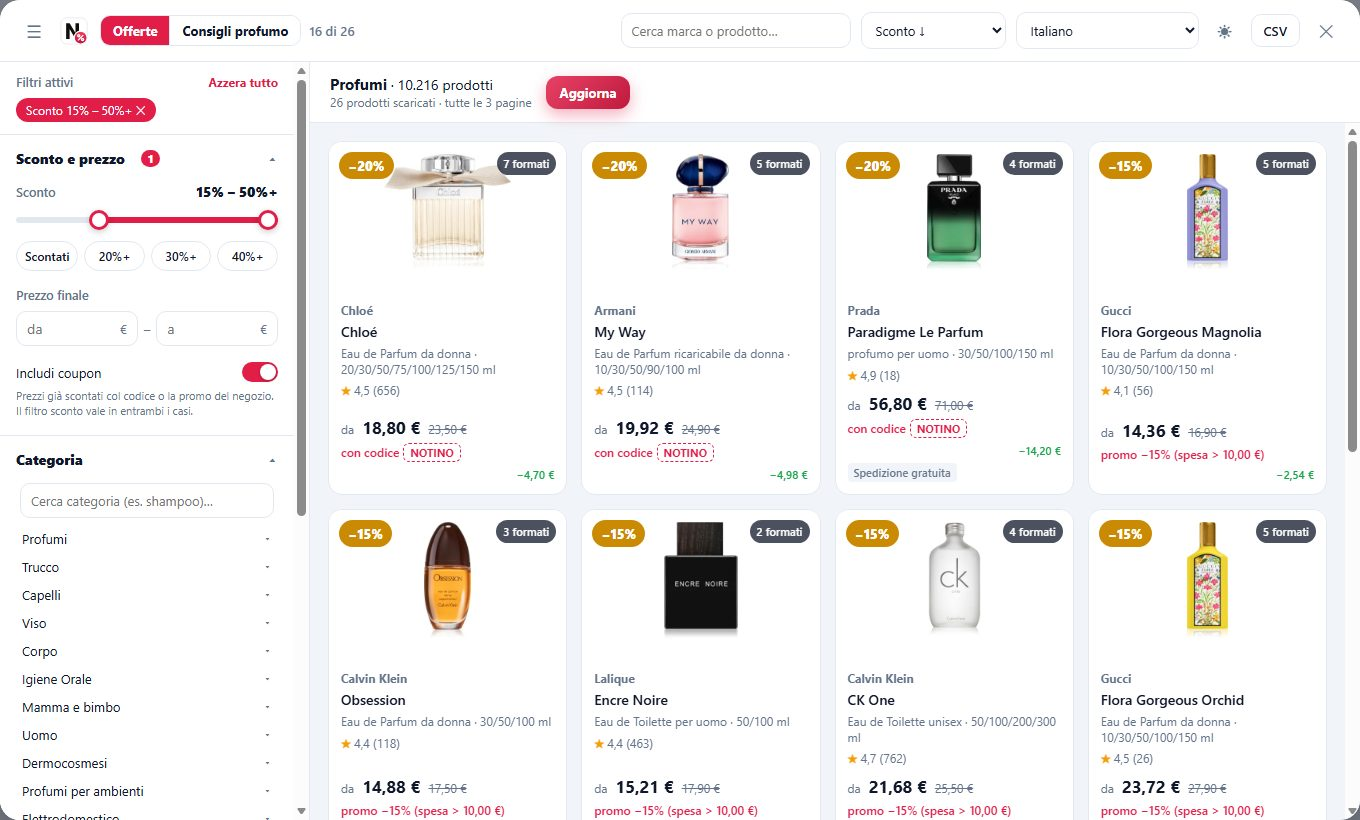
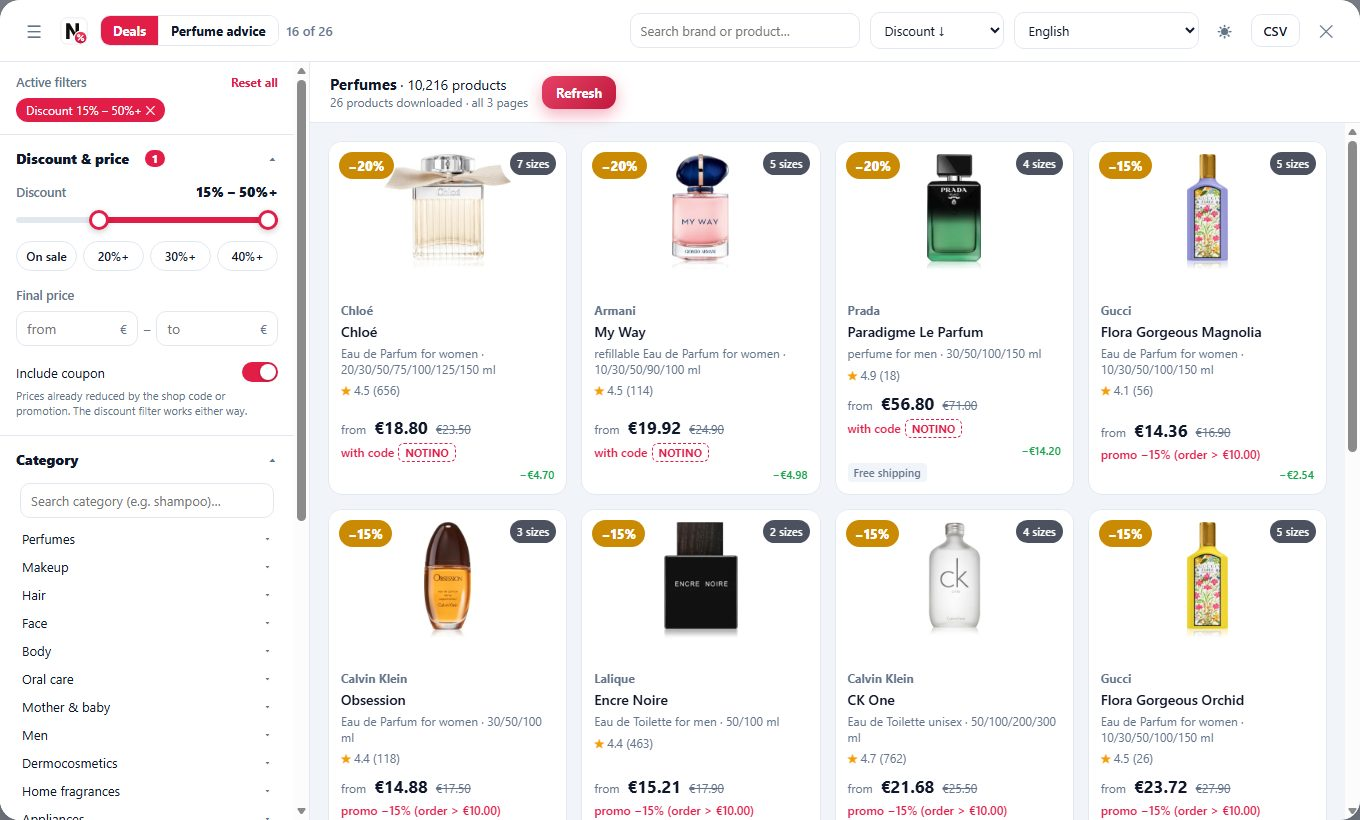
Add files via upload

diff --git a/features.html b/features.html
@@ -1,0 +1,67 @@
+<!doctype html>
+<html lang="it">
+<head>
+<meta charset="utf-8">
+<meta name="viewport" content="width=device-width, initial-scale=1">
+<title data-it="Tutte le funzioni – Deal Finder" data-en="All features – Deal Finder">Tutte le funzioni – Deal Finder</title>
+<meta name="description" content="Estensione per Microsoft Edge e Chrome che trova i veri sconti su Notino: sconto effettivo con codici, prezzo finale, filtri avanzati e consigli profumo.">
+<link rel="icon" href="img/logo.png">
+<link rel="stylesheet" href="style.css">
+<script src="lang.js"></script>
+<style>
+.fx{display:grid;grid-template-columns:210px 1fr;gap:48px;max-width:1100px;margin:0 auto;padding:40px 20px 60px}
+.toc{position:sticky;top:88px;align-self:start;display:flex;flex-direction:column;gap:2px;font-size:14px}
+.toc a{color:var(--mut);text-decoration:none;padding:5px 10px;border-radius:8px;border-left:2px solid transparent}
+.toc a:hover{color:var(--fg);background:var(--soft)}
+.toc a.on{color:var(--acc);border-left-color:var(--acc);background:var(--soft)}
+.fx h1{font-size:36px;letter-spacing:-.5px;margin-bottom:8px}
+.fx .lead{color:var(--mut);font-size:18px;margin-bottom:28px}
+.fs{padding:28px 0;border-top:1px solid var(--line);scroll-margin-top:80px}
+.fs h2{text-align:left;font-size:22px;margin:0 0 4px;display:flex;align-items:center;gap:10px}
+.fs h2 i{font-style:normal;width:32px;height:32px;border-radius:9px;display:grid;place-items:center;background:var(--soft);color:var(--acc);font-size:16px}
+.fs>p{color:var(--mut);margin:0 0 16px 42px}
+.fg{display:grid;grid-template-columns:repeat(2,1fr);gap:10px 28px;margin-left:42px}
+.fi b{display:block;font-size:15px}
+.fi span{color:var(--mut);font-size:14.5px}
+@media (max-width:820px){.fx{grid-template-columns:1fr}.toc{display:none}.fg{grid-template-columns:1fr;margin-left:0}.fs>p{margin-left:0}}
+</style>
+</head>
+<body>
+<header><div class="wrap">
+  <a class="brand" href="./"><img src="img/logo.png" alt="">Deal Finder</a>
+  <nav>
+    <a class="hide-m" href="features.html"><span data-lang="it">Tutte le funzioni</span><span data-lang="en">All features</span></a>
+    <a class="hide-m" href="./#lingue"><span data-lang="it">Lingue</span><span data-lang="en">Languages</span></a>
+    <a class="hide-m" href="./#prezzi"><span data-lang="it">Prezzi</span><span data-lang="en">Pricing</span></a>
+    <a class="hide-m" href="./#contatti"><span data-lang="it">Contatti</span><span data-lang="en">Contact</span></a>
+    <span class="lang"><button data-l="it">IT</button><button data-l="en">EN</button></span>
+  </nav>
+</div></header>
+
+<div class="fx">
+<nav class="toc"><a href="#start"><span data-lang="it">Come si usa</span><span data-lang="en">How it works</span></a><a href="#panel"><span data-lang="it">Sulla pagina Notino</span><span data-lang="en">On the Notino page</span></a><a href="#deals"><span data-lang="it">Vista Offerte</span><span data-lang="en">Deals view</span></a><a href="#price"><span data-lang="it">Sconto e prezzo</span><span data-lang="en">Discount &amp; price</span></a><a href="#cat"><span data-lang="it">Categorie</span><span data-lang="en">Categories</span></a><a href="#filters"><span data-lang="it">Filtri del negozio</span><span data-lang="en">Shop filters</span></a><a href="#product"><span data-lang="it">Prodotto</span><span data-lang="en">Product</span></a><a href="#cards"><span data-lang="it">Schede prodotto</span><span data-lang="en">Product cards</span></a><a href="#ff"><span data-lang="it">Consigli profumo</span><span data-lang="en">Perfume advice</span></a><a href="#custom"><span data-lang="it">Personalizzazione</span><span data-lang="en">Personalisation</span></a><a href="#lang"><span data-lang="it">Multilingua</span><span data-lang="en">Multilingual</span></a><a href="#pro"><span data-lang="it">Gratuita e PRO</span><span data-lang="en">Free and PRO</span></a><a href="#privacy"><span data-lang="it">Privacy</span><span data-lang="en">Privacy</span></a></nav>
+<main>
+<h1><span data-lang="it">Tutte le funzioni</span><span data-lang="en">All features</span></h1>
+<p class="lead"><span data-lang="it">Tutto quello che fa Deal Finder, in breve.</span><span data-lang="en">Everything Deal Finder does, in short.</span></p>
+<section class="fs" id="start"><h2><i>①</i><span data-lang="it">Come si usa</span><span data-lang="en">How it works</span></h2><p><span data-lang="it">Tre passi, nessuna configurazione.</span><span data-lang="en">Three steps, no setup.</span></p><div class="fg"><div class="fi"><b><span data-lang="it">Apri Notino</span><span data-lang="en">Open Notino</span></b><span data-lang="it">Vai su una categoria o una ricerca di qualsiasi sito Notino.</span><span data-lang="en">Go to any category or search on any Notino site.</span></div><div class="fi"><b><span data-lang="it">Guarda gli sconti</span><span data-lang="en">See the discounts</span></b><span data-lang="it">Ogni prodotto mostra subito il suo sconto effettivo; il pannello in basso a destra filtra la pagina.</span><span data-lang="en">Every product instantly shows its effective discount; the panel at the bottom right filters the page.</span></div><div class="fi"><b><span data-lang="it">Cerca in tutte le pagine</span><span data-lang="en">Search all pages</span></b><span data-lang="it">Un clic apre la vista Offerte: tutti i prodotti della categoria in un&#x27;unica lista filtrabile.</span><span data-lang="en">One click opens the Deals view: every product of the category in a single filterable list.</span></div></div></section><section class="fs" id="panel"><h2><i>◧</i><span data-lang="it">Sulla pagina Notino</span><span data-lang="en">On the Notino page</span></h2><p><span data-lang="it">Funzioni attive direttamente mentre navighi il sito.</span><span data-lang="en">Features that work right while you browse the site.</span></p><div class="fg"><div class="fi"><b><span data-lang="it">Etichetta sconto</span><span data-lang="en">Discount badge</span></b><span data-lang="it">Su ogni prodotto: −20%, −30%… colorata in base a quanto è forte lo sconto.</span><span data-lang="en">On every product: −20%, −30%… coloured by how strong the discount is.</span></div><div class="fi"><b><span data-lang="it">Filtro sconto da–a</span><span data-lang="en">Discount range filter</span></b><span data-lang="it">Cursore da 0% a 50%+ e pulsanti rapidi: Tutti, Scontati, 20%+, 30%+.</span><span data-lang="en">Slider from 0% to 50%+ and quick buttons: All, On sale, 20%+, 30%+.</span></div><div class="fi"><b><span data-lang="it">Nascondi o sbiadisci</span><span data-lang="en">Hide or fade</span></b><span data-lang="it">I prodotti fuori filtro spariscono oppure restano visibili ma in grigio.</span><span data-lang="en">Products outside the filter disappear, or stay visible but greyed out.</span></div><div class="fi"><b><span data-lang="it">Ordina per sconto</span><span data-lang="en">Sort by discount</span></b><span data-lang="it">Riordina i prodotti della pagina dal più scontato.</span><span data-lang="en">Reorders the products on the page, biggest discount first.</span></div><div class="fi"><b><span data-lang="it">Pannello discreto</span><span data-lang="en">Unobtrusive panel</span></b><span data-lang="it">Si riduce a icona quando vuoi, da solo sulle pagine prodotto e mentre usi la vista Offerte.</span><span data-lang="en">Shrinks to an icon whenever you want, automatically on product pages and while the Deals view is open.</span></div><div class="fi"><b><span data-lang="it">Segue la navigazione</span><span data-lang="en">Follows your browsing</span></b><span data-lang="it">Quando cambi pagina o filtri sul sito, i dati si aggiornano da soli.</span><span data-lang="en">When you change page or filters on the site, the data updates by itself.</span></div></div></section><section class="fs" id="deals"><h2><i>▤</i><span data-lang="it">Vista Offerte</span><span data-lang="en">Deals view</span></h2><p><span data-lang="it">Tutti i prodotti di una categoria in un&#x27;unica schermata.</span><span data-lang="en">Every product of a category on one screen.</span></p><div class="fg"><div class="fi"><b><span data-lang="it">Tutte le pagine insieme</span><span data-lang="en">All pages at once</span></b><span data-lang="it">Scarica automaticamente ogni pagina della categoria, con barra di avanzamento e tempo stimato.</span><span data-lang="en">Automatically loads every page of the category, with progress bar and time estimate.</span></div><div class="fi"><b><span data-lang="it">Anteprima immediata</span><span data-lang="en">Instant preview</span></b><span data-lang="it">La prima pagina compare subito; il resto arriva mentre scegli i filtri.</span><span data-lang="en">The first page appears right away; the rest arrives while you choose filters.</span></div><div class="fi"><b><span data-lang="it">Download intelligente</span><span data-lang="en">Smart download</span></b><span data-lang="it">Parte da solo quando smetti di cambiare filtri, si può fermare e ricordare durante la sessione.</span><span data-lang="en">Starts by itself when you stop changing filters, can be stopped, and is remembered for the session.</span></div><div class="fi"><b><span data-lang="it">Ricerca</span><span data-lang="en">Search</span></b><span data-lang="it">Cerca per marca o nome tra i prodotti scaricati.</span><span data-lang="en">Search by brand or name among downloaded products.</span></div><div class="fi"><b><span data-lang="it">8 ordinamenti</span><span data-lang="en">8 sort orders</span></b><span data-lang="it">Sconto, prezzo finale ↑↓, risparmio, prezzo per unità, valutazione, n° recensioni, formato.</span><span data-lang="en">Discount, final price ↑↓, savings, unit price, rating, number of reviews, size.</span></div><div class="fi"><b><span data-lang="it">Esporta CSV</span><span data-lang="en">CSV export</span></b><span data-lang="it">Scarica la lista filtrata per Excel o Fogli Google.</span><span data-lang="en">Download the filtered list for Excel or Google Sheets.</span></div><div class="fi"><b><span data-lang="it">Filtri attivi</span><span data-lang="en">Active filters</span></b><span data-lang="it">Riepilogo sempre visibile: ogni filtro si toglie con ✕, oppure Azzera tutto.</span><span data-lang="en">Always-visible summary: remove any filter with ✕, or Reset all.</span></div><div class="fi"><b><span data-lang="it">Barra laterale richiudibile</span><span data-lang="en">Collapsible sidebar</span></b><span data-lang="it">☰ nasconde i filtri per dare più spazio ai prodotti.</span><span data-lang="en">☰ hides the filters to give products more room.</span></div></div></section><section class="fs" id="price"><h2><i>%</i><span data-lang="it">Sconto e prezzo</span><span data-lang="en">Discount &amp; price</span></h2><p><span data-lang="it">Il prezzo che paghi davvero, non quello di listino.</span><span data-lang="en">The price you actually pay, not the list price.</span></p><div class="fg"><div class="fi"><b><span data-lang="it">Sconto effettivo</span><span data-lang="en">Effective discount</span></b><span data-lang="it">Il migliore tra codice sconto del negozio e promozioni con spesa minima.</span><span data-lang="en">The best of the shop&#x27;s discount code and minimum-spend promotions.</span></div><div class="fi"><b><span data-lang="it">Includi coupon</span><span data-lang="en">Include coupon</span></b><span data-lang="it">Mostra i prezzi già scontati, oppure i prezzi pieni con il prezzo col coupon accanto.</span><span data-lang="en">Shows prices already discounted, or full prices with the coupon price alongside.</span></div><div class="fi"><b><span data-lang="it">Prezzo finale da–a</span><span data-lang="en">Final price range</span></b><span data-lang="it">Filtra per quanto spendi davvero.</span><span data-lang="en">Filter by what you actually spend.</span></div><div class="fi"><b><span data-lang="it">Codice in un clic</span><span data-lang="en">One-click code</span></b><span data-lang="it">Il codice sconto si copia con un clic, pronto per il carrello.</span><span data-lang="en">The discount code copies with one click, ready for checkout.</span></div><div class="fi"><b><span data-lang="it">Risparmio</span><span data-lang="en">Savings</span></b><span data-lang="it">Quanto risparmi in valuta su ogni prodotto.</span><span data-lang="en">How much you save, in currency, on every product.</span></div><div class="fi"><b><span data-lang="it">Prezzo per unità</span><span data-lang="en">Unit price</span></b><span data-lang="it">Per 100 ml, per 100 g o per pezzo, per confrontare formati diversi.</span><span data-lang="en">Per 100 ml, per 100 g or per piece, to compare different sizes.</span></div></div></section><section class="fs" id="cat"><h2><i>⌘</i><span data-lang="it">Categorie</span><span data-lang="en">Categories</span></h2><p><span data-lang="it">Tutto il catalogo, senza voci inutili.</span><span data-lang="en">The whole catalogue, without clutter.</span></p><div class="fg"><div class="fi"><b><span data-lang="it">Albero completo</span><span data-lang="en">Full tree</span></b><span data-lang="it">11 reparti, sottocategorie e tipi di prodotto precisi (es. Capelli › Cura dei capelli › Shampoo).</span><span data-lang="en">11 departments, subcategories and precise product types (e.g. Hair › Hair care › Shampoo).</span></div><div class="fi"><b><span data-lang="it">Ricerca categoria</span><span data-lang="en">Category search</span></b><span data-lang="it">Scrivi &quot;mascara&quot; o &quot;shampoo&quot; e ci vai direttamente.</span><span data-lang="en">Type &quot;mascara&quot; or &quot;shampoo&quot; and jump straight there.</span></div><div class="fi"><b><span data-lang="it">Solo categorie vere</span><span data-lang="en">Real categories only</span></b><span data-lang="it">Niente promozioni, servizi, marche preferite o formati da viaggio nel menu.</span><span data-lang="en">No promotions, services, favourite brands or travel sizes in the menu.</span></div></div></section><section class="fs" id="filters"><h2><i>≡</i><span data-lang="it">Filtri del negozio</span><span data-lang="en">Shop filters</span></h2><p><span data-lang="it">I filtri ufficiali di Notino, con i conteggi in tempo reale.</span><span data-lang="en">Notino&#x27;s official filters, with real-time counts.</span></p><div class="fg"><div class="fi"><b><span data-lang="it">Conteggi immediati</span><span data-lang="en">Instant counts</span></b><span data-lang="it">Scegli un filtro e vedi subito quanti prodotti restano, senza scaricare nulla.</span><span data-lang="en">Pick a filter and immediately see how many products remain, without downloading anything.</span></div><div class="fi"><b><span data-lang="it">Marca</span><span data-lang="en">Brand</span></b><span data-lang="it">Centinaia di marche, con ricerca.</span><span data-lang="en">Hundreds of brands, with search.</span></div><div class="fi"><b><span data-lang="it">Colore</span><span data-lang="en">Colour</span></b><span data-lang="it">Griglia di colori come sul sito, comprese sfumature oro, argento e trasparente.</span><span data-lang="en">Colour grid like on the site, including gold, silver and transparent.</span></div><div class="fi"><b><span data-lang="it">Valutazione</span><span data-lang="en">Rating</span></b><span data-lang="it">Con le stelle.</span><span data-lang="en">With stars.</span></div><div class="fi"><b><span data-lang="it">Filtri per categoria</span><span data-lang="en">Category-specific filters</span></b><span data-lang="it">Tipo di pelle, effetto, tipo di capelli, tipo di profumo, durezza delle setole… a seconda del reparto.</span><span data-lang="en">Skin type, effect, hair type, fragrance type, bristle hardness… depending on the department.</span></div><div class="fi"><b><span data-lang="it">Combinabili</span><span data-lang="en">Combinable</span></b><span data-lang="it">I filtri del negozio si sommano a quelli dell&#x27;estensione.</span><span data-lang="en">Shop filters combine with the extension&#x27;s own filters.</span></div></div></section><section class="fs" id="product"><h2><i>◇</i><span data-lang="it">Prodotto</span><span data-lang="en">Product</span></h2><p><span data-lang="it">Dettagli che il negozio non permette di filtrare.</span><span data-lang="en">Details the shop does not let you filter.</span></p><div class="fg"><div class="fi"><b><span data-lang="it">Formato da–a</span><span data-lang="en">Size range</span></b><span data-lang="it">In ml, g o pezzi; con più formati basta che uno rientri.</span><span data-lang="en">In ml, g or pieces; with several sizes, one match is enough.</span></div><div class="fi"><b><span data-lang="it">Valutazione minima</span><span data-lang="en">Minimum rating</span></b><span data-lang="it">★ 4+ o ★ 4,5+, più un numero minimo di recensioni.</span><span data-lang="en">★ 4+ or ★ 4.5+, plus a minimum number of reviews.</span></div><div class="fi"><b><span data-lang="it">Caratteristiche</span><span data-lang="en">Features</span></b><span data-lang="it">Ricaricabile, ricarica, set, calendario dell&#x27;Avvento, tester, mini, intense, SPF, vegano, senza profumo, edizione limitata, consigliato dai dermatologi, solo su Notino.</span><span data-lang="en">Refillable, refill, set, advent calendar, tester, mini, intense, SPF, vegan, fragrance-free, limited edition, dermatologist recommended, shop exclusive.</span></div><div class="fi"><b><span data-lang="it">Disponibilità e altro</span><span data-lang="en">Availability and more</span></b><span data-lang="it">Solo disponibili, nascondi sponsorizzati, solo novità, solo spedizione gratuita.</span><span data-lang="en">In stock only, hide sponsored, new only, free shipping only.</span></div></div></section><section class="fs" id="cards"><h2><i>▢</i><span data-lang="it">Schede prodotto</span><span data-lang="en">Product cards</span></h2><p><span data-lang="it">Tutto quello che serve per decidere, a colpo d&#x27;occhio.</span><span data-lang="en">Everything you need to decide, at a glance.</span></p><div class="fg"><div class="fi"><b><span data-lang="it">Sconto e formato</span><span data-lang="en">Discount and size</span></b><span data-lang="it">Etichetta sconto, formato reale o numero di formati.</span><span data-lang="en">Discount badge, actual size or number of sizes.</span></div><div class="fi"><b><span data-lang="it">Prezzi chiari</span><span data-lang="en">Clear prices</span></b><span data-lang="it">Prezzo finale, prezzo pieno barrato, &quot;da&quot; quando ci sono più formati.</span><span data-lang="en">Final price, crossed-out full price, &quot;from&quot; when there are several sizes.</span></div><div class="fi"><b><span data-lang="it">Tonalità</span><span data-lang="en">Shades</span></b><span data-lang="it">Numero di tonalità per il trucco.</span><span data-lang="en">Number of shades for makeup.</span></div><div class="fi"><b><span data-lang="it">Avvisi</span><span data-lang="en">Labels</span></b><span data-lang="it">NOVITÀ ed ESAURITO in evidenza; spedizione gratuita e sponsorizzato in secondo piano.</span><span data-lang="en">NEW and SOLD OUT highlighted; free shipping and sponsored shown subtly.</span></div><div class="fi"><b><span data-lang="it">Marche come sono</span><span data-lang="en">Brands as they are</span></b><span data-lang="it">Le marche restano scritte come le scrive la marca.</span><span data-lang="en">Brand names stay exactly as the brand writes them.</span></div></div></section><section class="fs" id="ff"><h2><i>✿</i><span data-lang="it">Consigli profumo</span><span data-lang="en">Perfume advice</span></h2><p><span data-lang="it">Il Fragrance Finder di Notino, senza limiti e con gli sconti.</span><span data-lang="en">Notino&#x27;s Fragrance Finder, without limits and with discounts.</span></p><div class="fg"><div class="fi"><b><span data-lang="it">Da profumi che ami</span><span data-lang="en">From perfumes you love</span></b><span data-lang="it">Scegli almeno 2 profumi che ti piacciono, con ricerca per nome o marca.</span><span data-lang="en">Pick at least 2 perfumes you like, with search by name or brand.</span></div><div class="fi"><b><span data-lang="it">Da ingredienti</span><span data-lang="en">From ingredients</span></b><span data-lang="it">Fino a 4 note, in righe con icone grandi e ricerca (anche senza accenti).</span><span data-lang="en">Up to 4 notes, in rows with large icons and search (accent-insensitive).</span></div><div class="fi"><b><span data-lang="it">Tutti i consigli</span><span data-lang="en">All recommendations</span></b><span data-lang="it">Il sito ne mostra 6: qui li vedi tutti.</span><span data-lang="en">The site shows 6: here you see them all.</span></div><div class="fi"><b><span data-lang="it">Con sconto e prezzo finale</span><span data-lang="en">With discount and final price</span></b><span data-lang="it">Ogni consiglio viene cercato nel negozio per mostrare sconto e codice.</span><span data-lang="en">Every recommendation is looked up in the shop to show discount and code.</span></div><div class="fi"><b><span data-lang="it">Profilo olfattivo</span><span data-lang="en">Scent profile</span></b><span data-lang="it">La tua famiglia olfattiva, es. &quot;Floral, Citrus&quot;.</span><span data-lang="en">Your fragrance family, e.g. &quot;Floral, Citrus&quot;.</span></div><div class="fi"><b><span data-lang="it">Per combinazione di note</span><span data-lang="en">By note combination</span></b><span data-lang="it">Con gli ingredienti, i risultati sono divisi per note come sul sito.</span><span data-lang="en">With ingredients, results are grouped by notes like on the site.</span></div></div></section><section class="fs" id="custom"><h2><i>◐</i><span data-lang="it">Personalizzazione</span><span data-lang="en">Personalisation</span></h2><p><span data-lang="it">Dal pulsante dell&#x27;estensione nella barra del browser.</span><span data-lang="en">From the extension button in the browser toolbar.</span></p><div class="fg"><div class="fi"><b><span data-lang="it">Attiva / disattiva</span><span data-lang="en">On / off</span></b><span data-lang="it">Un interruttore; da spenta l&#x27;icona diventa grigia.</span><span data-lang="en">One switch; when off, the icon turns grey.</span></div><div class="fi"><b><span data-lang="it">Tema</span><span data-lang="en">Theme</span></b><span data-lang="it">Automatico, chiaro o scuro.</span><span data-lang="en">Automatic, light or dark.</span></div><div class="fi"><b><span data-lang="it">12 colori</span><span data-lang="en">12 colours</span></b><span data-lang="it">6 pensati per il tema chiaro e 6 per quello scuro; il testo resta sempre leggibile.</span><span data-lang="en">6 designed for the light theme and 6 for the dark one; text always stays readable.</span></div><div class="fi"><b><span data-lang="it">Lingua</span><span data-lang="en">Language</span></b><span data-lang="it">Automatica dal sito oppure scelta a mano.</span><span data-lang="en">Automatic from the site, or chosen manually.</span></div></div></section><section class="fs" id="lang"><h2><i>⊕</i><span data-lang="it">Multilingua</span><span data-lang="en">Multilingual</span></h2><p><span data-lang="it">Pensata per tutta Europa.</span><span data-lang="en">Built for all of Europe.</span></p><div class="fg"><div class="fi"><b><span data-lang="it">12 lingue</span><span data-lang="en">12 languages</span></b><span data-lang="it">Italiano, English, Deutsch, Français, Español, Português, Nederlands, Polski, Čeština, Slovenčina, Magyar, Română.</span><span data-lang="en">Italiano, English, Deutsch, Français, Español, Português, Nederlands, Polski, Čeština, Slovenčina, Magyar, Română.</span></div><div class="fi"><b><span data-lang="it">28 siti Notino</span><span data-lang="en">28 Notino sites</span></b><span data-lang="it">Progettata per i siti Notino di 28 Paesi.</span><span data-lang="en">Designed for Notino sites in 28 countries.</span></div><div class="fi"><b><span data-lang="it">Valuta locale</span><span data-lang="en">Local currency</span></b><span data-lang="it">€, £, Kč, zł, Ft, lei, CHF… nel formato del Paese.</span><span data-lang="en">€, £, Kč, zł, Ft, lei, CHF… in the country&#x27;s format.</span></div></div></section><section class="fs" id="pro"><h2><i>★</i><span data-lang="it">Gratuita e PRO</span><span data-lang="en">Free and PRO</span></h2><p><span data-lang="it">Tutte le funzioni sono gratuite.</span><span data-lang="en">Every feature is free.</span></p><div class="fg"><div class="fi"><b><span data-lang="it">Gratuita</span><span data-lang="en">Free</span></b><span data-lang="it">Tutte le funzioni, con piccoli spazi promozionali.</span><span data-lang="en">Every feature, with small promotional spaces.</span></div><div class="fi"><b><span data-lang="it">PRO · 1,99 €</span><span data-lang="en">PRO · €1.99</span></b><span data-lang="it">Pagamento unico, nessuno spazio promozionale.</span><span data-lang="en">One-time payment, no promotional spaces.</span></div><div class="fi"><b><span data-lang="it">Licenza semplice</span><span data-lang="en">Simple license</span></b><span data-lang="it">Un dispositivo alla volta, trasferibile; rimborso entro 14 giorni.</span><span data-lang="en">One device at a time, transferable; refund within 14 days.</span></div></div></section><section class="fs" id="privacy"><h2><i>◎</i><span data-lang="it">Privacy</span><span data-lang="en">Privacy</span></h2><p><span data-lang="it">Nessun account, nessun tracciamento.</span><span data-lang="en">No account, no tracking.</span></p><div class="fg"><div class="fi"><b><span data-lang="it">Tutto nel browser</span><span data-lang="en">Everything in your browser</span></b><span data-lang="it">Impostazioni e prodotti scaricati restano sul tuo dispositivo.</span><span data-lang="en">Settings and downloaded products stay on your device.</span></div><div class="fi"><b><span data-lang="it">Rispetta il sito</span><span data-lang="en">Respectful of the site</span></b><span data-lang="it">Scarica le pagine con calma, poche alla volta, come una navigazione normale.</span><span data-lang="en">Loads pages calmly, a few at a time, like normal browsing.</span></div><div class="fi"><b><span data-lang="it">Trasparente</span><span data-lang="en">Transparent</span></b><span data-lang="it">Link di affiliazione dichiarati; dettagli nella privacy policy.</span><span data-lang="en">Affiliate links disclosed; details in the privacy policy.</span></div></div></section>
+</main></div>
+<footer><div class="wrap">
+  <span>© 2026 Andrea Bietti · Deal Finder</span>
+  <nav>
+    <a href="features.html"><span data-lang="it">Funzioni</span><span data-lang="en">Features</span></a>
+    <a href="privacy.html">Privacy</a>
+    <a href="terms.html"><span data-lang="it">Termini</span><span data-lang="en">Terms</span></a>
+    <a href="refund.html"><span data-lang="it">Rimborsi</span><span data-lang="en">Refunds</span></a>
+    <a href="mailto:andreabietti.business@gmail.com"><span data-lang="it">Contatti</span><span data-lang="en">Contact</span></a>
+  </nav>
+  <span style="width:100%" data-lang="it">Notino è un marchio dei rispettivi titolari. Deal Finder è un progetto indipendente, non affiliato né approvato da Notino.</span>
+  <span style="width:100%" data-lang="en">Notino is a trademark of its respective owners. Deal Finder is an independent project, not affiliated with or endorsed by Notino.</span>
+</div></footer>
+<script>
+// evidenzia nell'indice la sezione visibile
+(function(){var links=[].slice.call(document.querySelectorAll('.toc a'));
+var obs=new IntersectionObserver(function(es){es.forEach(function(x){if(x.isIntersecting){links.forEach(function(a){a.classList.toggle('on',a.getAttribute('href')==='#'+x.target.id)})}})},{rootMargin:'-20% 0px -75% 0px'});
+document.querySelectorAll('.fs').forEach(function(s){obs.observe(s)});})();
+</script>
+</body>
+</html>

diff --git a/index.html b/index.html
@@ -13,7 +13,7 @@
 <header><div class="wrap">
   <a class="brand" href="./"><img src="img/logo.png" alt="">Deal Finder</a>
   <nav>
-    <a class="hide-m" href="#funzioni"><span data-lang="it">Funzioni</span><span data-lang="en">Features</span></a>
+    <a class="hide-m" href="features.html"><span data-lang="it">Tutte le funzioni</span><span data-lang="en">All features</span></a>
     <a class="hide-m" href="#lingue"><span data-lang="it">Lingue</span><span data-lang="en">Languages</span></a>
     <a class="hide-m" href="#prezzi"><span data-lang="it">Prezzi</span><span data-lang="en">Pricing</span></a>
     <a class="hide-m" href="#contatti"><span data-lang="it">Contatti</span><span data-lang="en">Contact</span></a>
@@ -30,7 +30,7 @@
     <a class="btn main" href="#prezzi"><span data-lang="it">Scopri la versione PRO</span><span data-lang="en">See the PRO version</span></a>
     <a class="btn" href="#funzioni"><span data-lang="it">Cosa fa</span><span data-lang="en">What it does</span></a>
   </div>
-  <div class="shot"><img data-lang="it" src="img/screenshot-it.jpg" alt="Deal Finder in italiano" width="1360" height="820"><img data-lang="en" src="img/screenshot-en.jpg" alt="Deal Finder in English" width="1360" height="820"></div>
+  <div class="shot"><img src="img/screenshot.jpg" alt="Deal Finder" width="1360" height="820"></div>
 </div></div>
 
 <section id="funzioni" class="alt"><div class="wrap">
@@ -61,6 +61,7 @@
       <p data-lang="it">Nessun account, nessun tracciamento: le impostazioni restano nel tuo browser.</p>
       <p data-lang="en">No account, no tracking: your settings stay in your browser.</p></div>
   </div>
+  <div class="cta" style="margin-top:28px"><a class="btn" href="features.html"><span data-lang="it">Tutte le funzioni →</span><span data-lang="en">All features →</span></a></div>
 </div></section>
 
 <section id="lingue"><div class="wrap">
@@ -120,6 +121,7 @@
 <footer><div class="wrap">
   <span>© 2026 Andrea Bietti · Deal Finder</span>
   <nav>
+    <a href="features.html"><span data-lang="it">Funzioni</span><span data-lang="en">Features</span></a>
     <a href="privacy.html">Privacy</a>
     <a href="terms.html"><span data-lang="it">Termini</span><span data-lang="en">Terms</span></a>
     <a href="refund.html"><span data-lang="it">Rimborsi</span><span data-lang="en">Refunds</span></a>

diff --git a/privacy.html b/privacy.html
@@ -13,7 +13,8 @@
 <header><div class="wrap">
   <a class="brand" href="./"><img src="img/logo.png" alt="">Deal Finder</a>
   <nav>
-    <a class="hide-m" href="./#funzioni"><span data-lang="it">Funzioni</span><span data-lang="en">Features</span></a>
+    <a class="hide-m" href="features.html"><span data-lang="it">Tutte le funzioni</span><span data-lang="en">All features</span></a>
+    <a class="hide-m" href="./#lingue"><span data-lang="it">Lingue</span><span data-lang="en">Languages</span></a>
     <a class="hide-m" href="./#prezzi"><span data-lang="it">Prezzi</span><span data-lang="en">Pricing</span></a>
     <a class="hide-m" href="./#contatti"><span data-lang="it">Contatti</span><span data-lang="en">Contact</span></a>
     <span class="lang"><button data-l="it">IT</button><button data-l="en">EN</button></span>
@@ -67,6 +68,7 @@
 <footer><div class="wrap">
   <span>© 2026 Andrea Bietti · Deal Finder</span>
   <nav>
+    <a href="features.html"><span data-lang="it">Funzioni</span><span data-lang="en">Features</span></a>
     <a href="privacy.html">Privacy</a>
     <a href="terms.html"><span data-lang="it">Termini</span><span data-lang="en">Terms</span></a>
     <a href="refund.html"><span data-lang="it">Rimborsi</span><span data-lang="en">Refunds</span></a>

diff --git a/refund.html b/refund.html
@@ -13,7 +13,8 @@
 <header><div class="wrap">
   <a class="brand" href="./"><img src="img/logo.png" alt="">Deal Finder</a>
   <nav>
-    <a class="hide-m" href="./#funzioni"><span data-lang="it">Funzioni</span><span data-lang="en">Features</span></a>
+    <a class="hide-m" href="features.html"><span data-lang="it">Tutte le funzioni</span><span data-lang="en">All features</span></a>
+    <a class="hide-m" href="./#lingue"><span data-lang="it">Lingue</span><span data-lang="en">Languages</span></a>
     <a class="hide-m" href="./#prezzi"><span data-lang="it">Prezzi</span><span data-lang="en">Pricing</span></a>
     <a class="hide-m" href="./#contatti"><span data-lang="it">Contatti</span><span data-lang="en">Contact</span></a>
     <span class="lang"><button data-l="it">IT</button><button data-l="en">EN</button></span>
@@ -47,6 +48,7 @@
 <footer><div class="wrap">
   <span>© 2026 Andrea Bietti · Deal Finder</span>
   <nav>
+    <a href="features.html"><span data-lang="it">Funzioni</span><span data-lang="en">Features</span></a>
     <a href="privacy.html">Privacy</a>
     <a href="terms.html"><span data-lang="it">Termini</span><span data-lang="en">Terms</span></a>
     <a href="refund.html"><span data-lang="it">Rimborsi</span><span data-lang="en">Refunds</span></a>

diff --git a/terms.html b/terms.html
@@ -13,7 +13,8 @@
 <header><div class="wrap">
   <a class="brand" href="./"><img src="img/logo.png" alt="">Deal Finder</a>
   <nav>
-    <a class="hide-m" href="./#funzioni"><span data-lang="it">Funzioni</span><span data-lang="en">Features</span></a>
+    <a class="hide-m" href="features.html"><span data-lang="it">Tutte le funzioni</span><span data-lang="en">All features</span></a>
+    <a class="hide-m" href="./#lingue"><span data-lang="it">Lingue</span><span data-lang="en">Languages</span></a>
     <a class="hide-m" href="./#prezzi"><span data-lang="it">Prezzi</span><span data-lang="en">Pricing</span></a>
     <a class="hide-m" href="./#contatti"><span data-lang="it">Contatti</span><span data-lang="en">Contact</span></a>
     <span class="lang"><button data-l="it">IT</button><button data-l="en">EN</button></span>
@@ -61,6 +62,7 @@
 <footer><div class="wrap">
   <span>© 2026 Andrea Bietti · Deal Finder</span>
   <nav>
+    <a href="features.html"><span data-lang="it">Funzioni</span><span data-lang="en">Features</span></a>
     <a href="privacy.html">Privacy</a>
     <a href="terms.html"><span data-lang="it">Termini</span><span data-lang="en">Terms</span></a>
     <a href="refund.html"><span data-lang="it">Rimborsi</span><span data-lang="en">Refunds</span></a>

diff --git a/style.css b/style.css
@@ -23,7 +23,7 @@ header nav a:hover{color:var(--acc)}
 .btn{display:inline-block;padding:12px 22px;border-radius:12px;font-weight:700;text-decoration:none;border:1px solid var(--line);color:var(--fg)}
 .btn.main{background:linear-gradient(135deg,#f43f5e,var(--acc2));color:#fff;border:none;box-shadow:0 8px 20px rgba(225,29,72,.3)}
 .shot{margin:40px auto 0;max-width:1000px;border-radius:16px;overflow:hidden;box-shadow:0 30px 60px rgba(15,23,42,.18);border:1px solid var(--line)}
-.shot img{width:100%;height:auto}
+.shot img{display:block;width:100%;height:auto}
 section{padding:56px 0}
 section.alt{background:var(--soft)}
 h2{font-size:30px;letter-spacing:-.3px;margin-bottom:24px;text-align:center}
@@ -57,4 +57,3 @@ html[lang="it"] [data-lang="it"],html[lang="en"] [data-lang="en"]{display:revert
 .sub{text-align:center;font-weight:700;margin:22px 0 10px}
 .pills{display:flex;flex-wrap:wrap;gap:8px;justify-content:center;max-width:900px;margin:0 auto}
 .pill{border:1px solid var(--line);background:var(--soft);border-radius:999px;padding:5px 12px;font-size:14px}
-html[lang="it"] .shot img[data-lang="it"],html[lang="en"] .shot img[data-lang="en"]{display:block}
